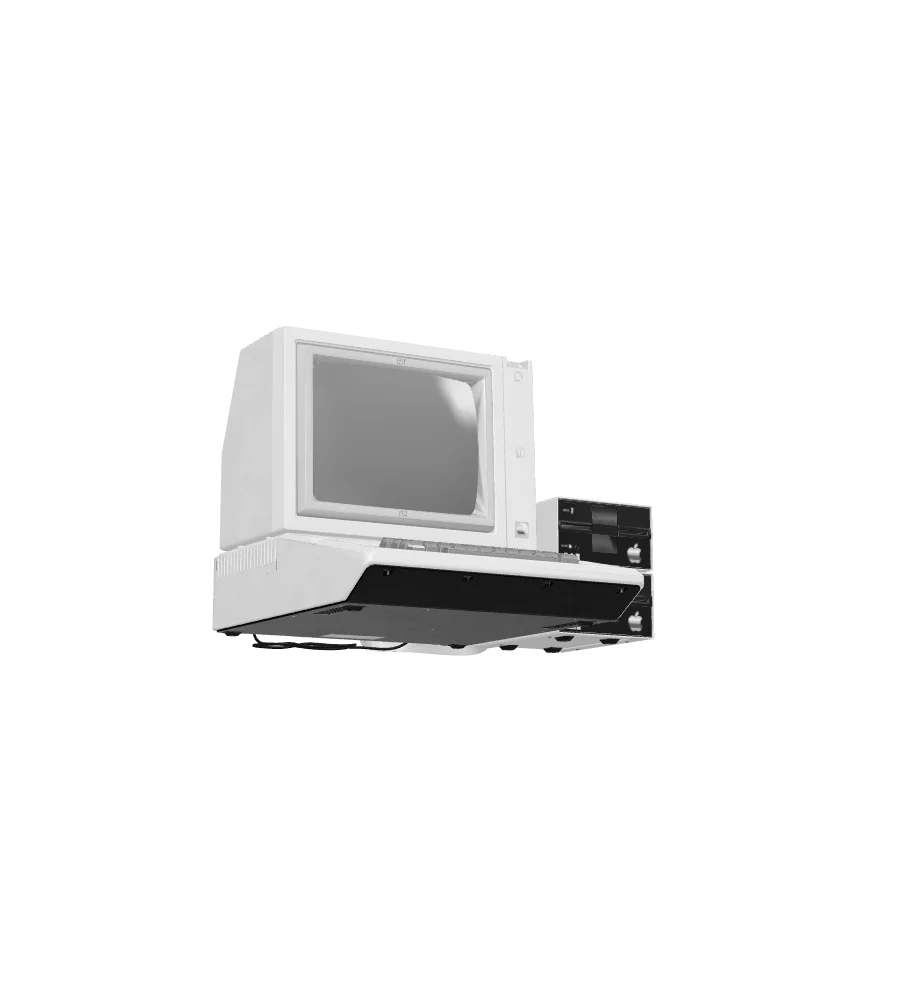
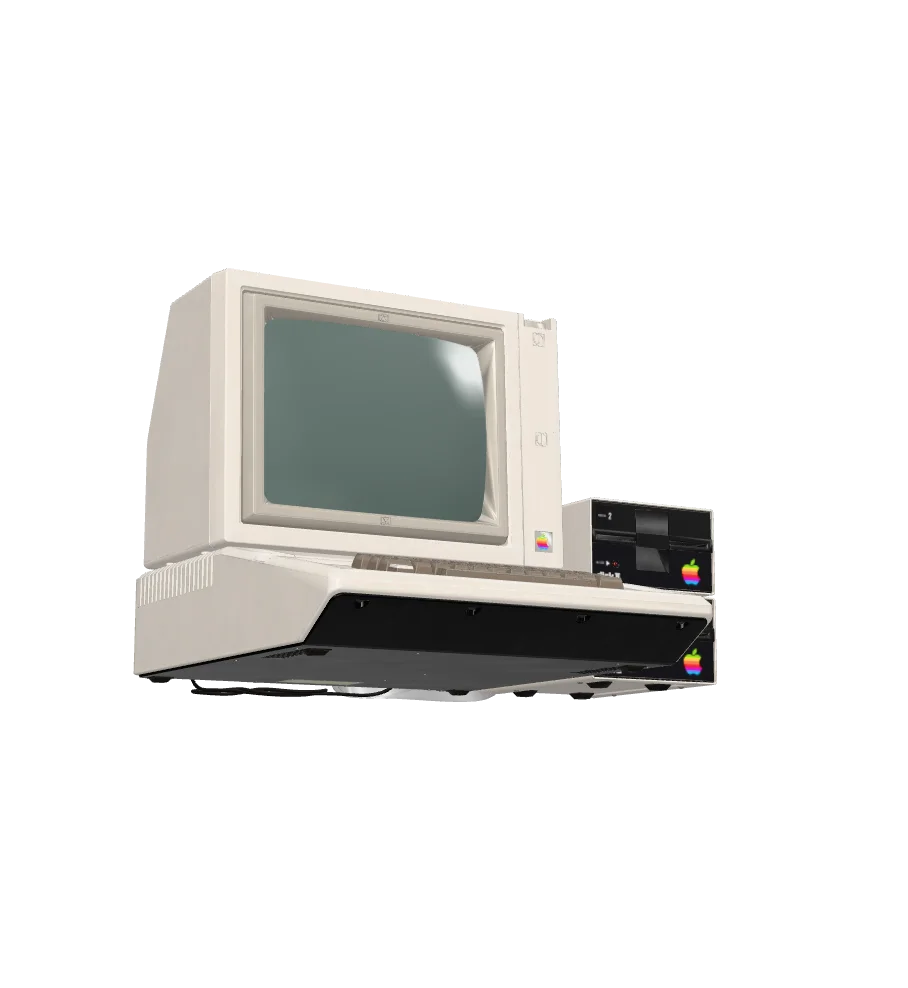
fix: ajustes da orelha, do 3D e do título da home (G4)
Orelha sem rastro (bloco fixo escalado por transform, sem filter nem animação de
width/height), página de baixo com o mesmo papel e grão do jornal (sem listras),
limiar de 110 px para virar a página e dica escondida durante o arraste. Título
da home sem estourar a coluna. Computador 3D maior e colorido, com o quadriculado
girando junto com o modelo. Testes de regressão para cada ponto.

Changed region(s): [[0.1233, 0.2733, 0.8018, 0.7287]]

diff --git a/tests/e2e/interactions.spec.ts b/tests/e2e/interactions.spec.ts
@@ -32,20 +32,22 @@ async function arrastarOrelha(page: Page, delta: number, soltar = true) {
   if (soltar) await page.mouse.up();
 }
 
-test('arrastar a orelha menos de ~280px e soltar faz o canto voltar (sem trocar de página)', async ({ page }) => {
+test('arrastar a orelha menos de 110px (dx+dy) e soltar faz o canto voltar (sem trocar de página)', async ({
+  page,
+}) => {
   await page.goto('/sobre/');
   const orelha = page.getByRole('link', { name: /Virar a página/ });
-  await arrastarOrelha(page, 200, false);
+  await arrastarOrelha(page, 80, false);
   expect(Number(await orelha.getAttribute('data-ear-size'))).toBeGreaterThan(100); // o canto descolou
   await page.mouse.up();
   await expect(orelha).toHaveAttribute('data-ear-size', '44'); // voltou
   await expect(page).toHaveURL(/\/sobre\/$/);
 });
 
-test('arrastar a orelha 280px ou mais e soltar completa a virada', async ({ page }) => {
+test('arrastar a orelha 110px ou mais (dx+dy) e soltar completa a virada', async ({ page }) => {
   await spyViewTransitions(page);
   await page.goto('/sobre/');
-  await arrastarOrelha(page, 340);
+  await arrastarOrelha(page, 170);
   await expect(page).toHaveURL(/\/experiencia\/$/, { timeout: 10_000 });
   await expect(page.locator('h1')).toHaveText('Experiência e formação');
 });
@@ -168,6 +170,29 @@ test.describe('computador 3D', () => {
     await expect(page.getByRole('figure', { name: /Computador compacto/ })).toBeVisible();
   });
 
+  test('o quadriculado gira junto com o modelo (setas) e o canvas não tem filtro de cinza', async ({
+    page,
+    browserName,
+  }) => {
+    await page.goto('/design-system/');
+    const quadro = page.locator('[data-renderer]').first();
+    await quadro.scrollIntoViewIfNeeded();
+    await expect(quadro).toHaveAttribute('data-renderer', /3d|cube/, { timeout: 45_000 });
+    const raios = page.getByTestId('mac-raios');
+    const antes = await raios.evaluate((el) => getComputedStyle(el).transform);
+    await quadro.focus();
+    await page.keyboard.press('ArrowRight');
+    await expect.poll(() => raios.evaluate((el) => getComputedStyle(el).transform)).not.toBe(antes);
+    if (browserName === 'chromium' && (await quadro.getAttribute('data-renderer')) === '3d') {
+      expect(
+        await page
+          .getByTestId('mac-3d')
+          .locator('canvas')
+          .evaluate((c) => getComputedStyle(c).filter),
+      ).toBe('none');
+    }
+  });
+
   test('a atribuição CC BY 4.0 do modelo está na página', async ({ page }) => {
     await page.goto('/');
     await expect(page.getByRole('link', { name: '«Apple II Computer»' })).toHaveAttribute(
@@ -197,3 +222,58 @@ test('orçamento: JS inicial de uma página sem o 3D fica abaixo de 150 KB gzip'
   await page.waitForLoadState('networkidle');
   expect(total / 1024, `JS inicial: ${(total / 1024).toFixed(1)} KB gzip`).toBeLessThan(150);
 });
+
+test('a orelha não usa filter nem animação de width/height (causa do rastro no Safari) e a página de baixo é papel liso', async ({
+  page,
+}) => {
+  await page.goto('/sobre/');
+  const orelha = page.getByRole('link', { name: /Virar a página/ });
+  await expect(orelha).toHaveAttribute('data-ready', 'true');
+  const auditoria = await orelha.evaluate((link) => {
+    const curl = link.previousElementSibling?.previousElementSibling as HTMLElement;
+    const todos = [curl, ...curl.querySelectorAll<HTMLElement>('*')];
+    return {
+      comFilter: todos.filter((el) => getComputedStyle(el).filter !== 'none').length,
+      comListras: todos.filter((el) => /repeating/.test(getComputedStyle(el).backgroundImage)).length,
+      // Só transições com duração de verdade (o padrão `all 0s` não conta) em width, height ou all.
+      transicoes: todos.filter((el) => {
+        const e = getComputedStyle(el);
+        return (
+          /width|height|all/.test(e.transitionProperty) &&
+          e.transitionDuration.split(',').some((d) => parseFloat(d) > 0)
+        );
+      }).length,
+      z: getComputedStyle(curl).zIndex,
+    };
+  });
+  expect(auditoria.comFilter).toBe(0);
+  expect(auditoria.comListras).toBe(0);
+  expect(auditoria.transicoes).toBe(0);
+  expect(auditoria.z).toBe('2'); // abaixo da textura de papel (z-3): recebe o mesmo grão do jornal
+});
+
+for (const [locale, caminho] of [
+  ['pt', '/'],
+  ['en', '/en/'],
+  ['de', '/de/'],
+] as const) {
+  for (const largura of [1280, 1024, 820]) {
+    test(`o título da home não estoura a coluna (${locale}, ${largura}px)`, async ({ page }) => {
+      await page.setViewportSize({ width: largura, height: 800 });
+      await page.goto(caminho);
+      const medidas = await page
+        .locator('article h2')
+        .first()
+        .evaluate((h) => {
+          const coluna = h.closest('article') as HTMLElement;
+          return {
+            cabe: h.scrollWidth <= h.clientWidth + 1,
+            direita: h.getBoundingClientRect().right,
+            limite: coluna.getBoundingClientRect().right,
+          };
+        });
+      expect(medidas.cabe).toBe(true);
+      expect(medidas.direita).toBeLessThanOrEqual(medidas.limite + 1);
+    });
+  }
+}

diff --git a/src/components/gazeta/PageEarCurl.tsx b/src/components/gazeta/PageEarCurl.tsx
@@ -1,7 +1,10 @@
+/** Lado do quadrado em que a orelha é desenhada; a orelha de verdade é esse bloco reduzido por `transform: scale`. */
+const MAX = 700;
+
 interface PageEarCurlProps {
-  /** Lado do canto virado em px (44 em repouso; a orelha cresce até 700 ao arrastar e 1800 ao concluir). */
+  /** Lado do canto virado em px (44 em repouso; a orelha cresce ao arrastar e ao completar a virada). */
   size?: number;
-  /** Nome da próxima seção e número da página, impressos no verso. */
+  /** Nome da próxima seção e número da página, impressos na página de baixo. */
   nextLabel: string;
   nextPage: number;
   /** Pulso discreto no repouso. */
@@ -12,7 +15,14 @@ interface PageEarCurlProps {
   dragging?: boolean;
 }
 
-/** Parte visual da orelha (canto virado). A interação (arrastar, clicar, Enter) entra no G4. */
+/**
+ * Parte visual da orelha (canto virado); a interação fica em `PageEar`.
+ *
+ * - O canto é um bloco fixo de 700 px escalado por `transform`: sem animar `width/height` e sem `filter` (o `drop-shadow`
+ *   deixava um rastro retangular no Safari ao soltar a orelha).
+ * - A página de baixo usa o MESMO papel do jornal: a orelha fica sob a camada de textura da folha (z-2, abaixo do z-3 da
+ *   textura), então recebe o mesmo grão e a mesma vinheta, sem hachuras.
+ */
 export function PageEarCurl({
   size = 44,
   nextLabel,
@@ -21,29 +31,30 @@ export function PageEarCurl({
   pageLabel = 'Página',
   dragging = false,
 }: PageEarCurlProps) {
+  const escala = Math.max(size, 1) / MAX;
   return (
-    <div aria-hidden="true" className="pointer-events-none absolute inset-0 z-[6] overflow-hidden max-sm:fixed">
+    <div aria-hidden="true" className="pointer-events-none absolute inset-0 z-[2] overflow-hidden max-sm:fixed">
       <div
-        className={`absolute right-0 bottom-0 origin-bottom-right ${pulse ? 'animate-ear-hint' : ''}`}
-        style={{ width: size, height: size, transition: dragging ? 'none' : 'width .25s ease, height .25s ease' }}
+        className="absolute right-0 bottom-0 origin-bottom-right"
+        style={{
+          width: MAX,
+          height: MAX,
+          transform: `scale(${escala})`,
+          transition: dragging ? 'none' : 'transform .25s ease',
+          willChange: 'transform',
+        }}
       >
-        <div className="absolute inset-0 bg-ear-back" style={{ clipPath: 'polygon(100% 100%, 0 100%, 100% 0)' }}>
-          <div
-            className="absolute inset-0"
-            style={{
-              background: 'linear-gradient(135deg, transparent 50%, rgb(0 0 0 / 0.38) 50%, rgb(0 0 0 / 0) 78%)',
-            }}
-          />
-          {size >= 200 && (
-            <div className="absolute right-[22px] bottom-3.5 text-right">
-              <p className="font-label text-[22px] tracking-[0.2em] uppercase">
-                {pageLabel} {nextPage}
-              </p>
-              <p className="font-headline text-[32px] leading-[1.1] font-extrabold">{nextLabel}</p>
-            </div>
-          )}
-        </div>
-        <div className="absolute inset-0" style={{ filter: 'drop-shadow(-3px -3px 5px rgb(0 0 0 / 0.35))' }}>
+        <div className={`absolute inset-0 origin-bottom-right ${pulse ? 'animate-ear-hint' : ''}`}>
+          {/* Página de baixo: papel liso, com a sombra que a dobra projeta sobre ela. */}
+          <div className="absolute inset-0 bg-paper" style={{ clipPath: 'polygon(100% 100%, 0 100%, 100% 0)' }}>
+            <div
+              className="absolute inset-0"
+              style={{
+                background: 'linear-gradient(135deg, transparent 50%, rgb(0 0 0 / 0.3) 50%, rgb(0 0 0 / 0) 70%)',
+              }}
+            />
+          </div>
+          {/* Canto levantado. */}
           <div
             className="absolute inset-0"
             style={{
@@ -53,6 +64,14 @@ export function PageEarCurl({
           />
         </div>
       </div>
+      {size >= 160 && (
+        <div className="absolute right-[22px] bottom-3.5 text-right">
+          <p className="font-label text-[22px] tracking-[0.2em] uppercase">
+            {pageLabel} {nextPage}
+          </p>
+          <p className="font-headline text-[32px] leading-[1.1] font-extrabold">{nextLabel}</p>
+        </div>
+      )}
     </div>
   );
 }

diff --git a/src/components/gazeta/MacViewer3D.tsx b/src/components/gazeta/MacViewer3D.tsx
@@ -2,7 +2,7 @@
 
 import { useEffect, useRef } from 'react';
 import {
-  ACESFilmicToneMapping,
+  NeutralToneMapping,
   Box3,
   Group,
   PMREMGenerator,
@@ -72,10 +72,9 @@ export default function MacViewer3D({ rx, ry, dragging, reducedMotion, onReady, 
     }
     renderer.setPixelRatio(Math.min(window.devicePixelRatio || 1, 2));
     renderer.outputColorSpace = SRGBColorSpace;
-    renderer.toneMapping = ACESFilmicToneMapping;
+    renderer.toneMapping = NeutralToneMapping; // preserva melhor as cores do modelo (o ACES as lavava)
     renderer.domElement.setAttribute('aria-hidden', 'true');
-    renderer.domElement.style.cssText =
-      'position:absolute;inset:0;width:100%;height:100%;display:block;filter:grayscale(1) contrast(1.08)';
+    renderer.domElement.style.cssText = 'position:absolute;inset:0;width:100%;height:100%;display:block';
     host.appendChild(renderer.domElement);
 
     const scene = new Scene();
@@ -138,9 +137,9 @@ export default function MacViewer3D({ rx, ry, dragging, reducedMotion, onReady, 
         const center = box.getCenter(new Vector3());
         model.position.sub(center);
         pivot.add(model);
-        // Enquadra o modelo: a maior dimensão ocupa ~48% da altura visível.
+        // Enquadra o modelo: a maior dimensão ocupa ~66% da altura visível.
         const maior = Math.max(size.x, size.y, size.z);
-        const distancia = maior / 0.48 / 2 / Math.tan((camera.fov * DEG) / 2);
+        const distancia = maior / 0.66 / 2 / Math.tan((camera.fov * DEG) / 2);
         camera.position.set(0, 0, distancia + size.z / 2);
         camera.lookAt(0, 0, 0);
         camera.far = distancia * 6;

diff --git a/src/components/site/PageEar.tsx b/src/components/site/PageEar.tsx
@@ -6,10 +6,15 @@ import { PageEarCurl } from '@/components/gazeta';
 import { track } from '@/lib/analytics';
 import { turnTo } from '@/lib/page-turn';
 
-/** Arraste diagonal somado (dx + dy) a partir do qual soltar completa a virada (BRIEF seção 4). */
-export const EAR_COMPLETE_AT = 280;
+/**
+ * Arraste diagonal somado (dx + dy) a partir do qual soltar completa a virada. O BRIEF previa ~280 px; o autor achou que
+ * exigia puxar demais (2026-10-06), então caiu para 110 px (o canto já está bem levantado nesse ponto).
+ */
+export const EAR_COMPLETE_AT = 110;
 const REST = 44;
 const MAX = 700;
+/** O canto cresce `ESCALA` px para cada px arrastado na diagonal. */
+const ESCALA = 1.8;
 const MOVED_THRESHOLD = 8;
 
 interface PageEarProps {
@@ -50,7 +55,7 @@ export function PageEar({ href, ariaLabel, nextLabel, nextPage, pageLabel, hint 
     const v = soma(e);
     start.current.v = v;
     if (v > MOVED_THRESHOLD) start.current.moved = true;
-    setSize(Math.min(MAX, REST + v * 0.9));
+    setSize(Math.min(MAX, REST + v * ESCALA));
   }
 
   function finish(e: PointerEvent<HTMLAnchorElement>) {
@@ -94,7 +99,7 @@ export function PageEar({ href, ariaLabel, nextLabel, nextPage, pageLabel, hint 
       />
       <span
         aria-hidden="true"
-        className="pointer-events-none absolute right-[72px] bottom-4 z-[3] hidden font-label text-xl tracking-[0.16em] uppercase sm:block"
+        className={`pointer-events-none absolute right-[72px] bottom-4 z-[3] hidden font-label text-xl tracking-[0.16em] uppercase transition-opacity duration-150 sm:block ${size > REST ? 'opacity-0' : ''}`}
       >
         {hint}
       </span>

diff --git a/src/components/gazeta/MacViewer.tsx b/src/components/gazeta/MacViewer.tsx
@@ -159,10 +159,17 @@ export function MacViewer({ labels = DEFAULT_LABELS }: { labels?: MacViewerLabel
         className={`relative h-[500px] touch-pan-y overflow-hidden border-[3px] border-ink select-none ${dragging ? 'cursor-grabbing' : 'cursor-grab'}`}
         style={{ boxShadow: '0 0 0 6px #f5f3ec, 0 0 0 8px #111' }}
       >
+        {/* Raios do quadriculado: giram em torno do centro junto com o computador (o cruzamento com os anéis, fixos, faz o
+            quadriculado "andar em círculo"). Maior que o quadro para que os cantos não apareçam ao girar. */}
         <div
           aria-hidden="true"
-          className="absolute inset-0"
-          style={{ background: 'repeating-conic-gradient(from 0 at 50% 50%, #111 0 6deg, #f5f3ec 6deg 12deg)' }}
+          data-testid="mac-raios"
+          className="absolute -inset-[25%]"
+          style={{
+            background: 'repeating-conic-gradient(from 0 at 50% 50%, #111 0 6deg, #f5f3ec 6deg 12deg)',
+            transform: `rotate(${rot.ry}deg)`,
+            transition: dragging || reducedMotion ? 'none' : 'transform 450ms ease-out',
+          }}
         />
         <div
           aria-hidden="true"

diff --git a/src/components/site/pages/Home.tsx b/src/components/site/pages/Home.tsx
@@ -13,7 +13,9 @@ export function HomePage({ locale }: { locale: Locale }) {
     <div className="flex flex-wrap gap-y-9">
       <article className="min-w-0 flex-[1_1_260px] lg:pr-7">
         <p className="font-label text-xl tracking-[0.22em] uppercase">{home.kicker}</p>
-        <h2 className="font-headline text-[clamp(30px,3.4vw,40px)] leading-[1.1] font-extrabold">{home.headline}</h2>
+        <h2 className="font-headline text-[clamp(24px,2.5vw,34px)] leading-[1.1] font-extrabold [overflow-wrap:anywhere] hyphens-auto">
+          {home.headline}
+        </h2>
         <p className="mt-3 text-xl italic">{home.lead}</p>
         <hr className="my-4 border-0 border-t border-ink" />
         <p className="prose-gazeta">

diff --git a/docs/DECISIONS.md b/docs/DECISIONS.md
@@ -167,3 +167,14 @@ Fontes: <https://docs.umami.is/docs/tracker-configuration>, <https://docs.umami.
 | Currículo (`public/resume-raphael-sena.pdf`) vira a fonte de Experiência, Formação, Projetos, Tecnologias, Sobre e Home; números e datas do currículo liberados pelo autor; telefone do PDF fora do site                                                                                                              | Pedido do usuário ("atualize com base em meu currículo"); a restrição anterior de não publicar números valia só até a confirmação do autor |
 | Estrutura de dados: `jobs` sem `skills`, com `items` (título e texto) nos dicionários; `projects` com `stack` (currículo) ou `languages` (GitHub) e `repo` opcional; tecnologias em 12 grupos, com itens descritivos nos dicionários (`technologies.extra`) para os nomes de tecnologia continuarem neutros de idioma | Currículo estruturado por destaques; o TCC não tem repositório público                                                                     |
 | Agência Experimental de Software (Cuido Bem) deixa de ser experiência atual                                                                                                                                                                                                                                           | O currículo novo só a cita na formação (Tech Lead no projeto PMMG); a confirmar com o autor                                                |
+
+## Ajustes do G4 pedidos pelo autor (2026-10-06)
+
+| Decisão                                                                                                                                                                                                                                                                        | Motivo                                                                                                                                                                                                                                                                                                         |
+| ------------------------------------------------------------------------------------------------------------------------------------------------------------------------------------------------------------------------------------------------------------------------------ | -------------------------------------------------------------------------------------------------------------------------------------------------------------------------------------------------------------------------------------------------------------------------------------------------------------- |
+| Limiar da orelha: **110 px** de arraste diagonal somado (dx+dy), no lugar dos ~280 px do BRIEF; o canto cresce 1,8 px por px arrastado (já fica com ~240 px no limiar). A legenda "Página N / Seção" aparece a partir de 160 px; a dica "Puxe a orelha" some durante o arraste | "Está muito grande para passar de página, preciso puxar muito". O BRIEF seção 4 e o DESIGN-SPEC ainda citam 280 px; vale esta decisão                                                                                                                                                                          |
+| Orelha redesenhada: bloco fixo de 700 px escalado por `transform: scale` (sem animar `width/height`, sem `filter: drop-shadow`)                                                                                                                                                | O autor viu, no Safari, um retângulo com linhas horizontais ("rastro") depois de puxar e voltar: o desenho antigo animava `width/height` sob um `drop-shadow`. Não reproduzi o artefato no WebKit sem tela, mas a causa provável foi removida e há teste de regressão (sem `filter`, sem transição de tamanho) |
+| A página de baixo (verso revelado) é **papel liso do jornal**: a orelha fica em `z-2`, abaixo da camada de textura `z-3`, e recebe o mesmo grão e a mesma vinheta; sem hachuras                                                                                                | "A página de baixo está com listras iguais ao background do jornal; quero a mesma textura do jornal" e "background transparente ou o default do navegador". Interpretação: o verso não tem preenchimento próprio (é o papel da folha)                                                                          |
+| Modelo 3D **colorido** (sem `grayscale`), **maior** (66% da altura do quadro, antes 48%) e com `NeutralToneMapping` (o ACES lavava as cores); poster regenerado colorido. O cubo CSS de reserva continua em preto e branco                                                     | "O 3D poderia ser maior e colorido, a dissonância fica legal". Substitui a decisão de 2026-10-06 de manter o 3D em tons de cinza                                                                                                                                                                               |
+| Os raios do quadriculado (`repeating-conic-gradient`) giram com o mesmo ângulo do modelo (`rotate(ry)`); os anéis ficam fixos e o cruzamento dos dois faz o quadriculado "andar em círculo". Sem transição com movimento reduzido ou durante o arraste                         | "Queria que o quadriculado mexesse em círculo conforme a movimentação do 3D"                                                                                                                                                                                                                                   |
+| Título da home: `clamp(24px, 2.5vw, 34px)` com `hyphens-auto` e `overflow-wrap: anywhere`                                                                                                                                                                                      | "DESENVOLVEDOR" estourava para a coluna do centro; testado em pt, en e de a 1280, 1024 e 820 px                                                                                                                                                                                                                |

diff --git a/docs/PROGRESS.md b/docs/PROGRESS.md
@@ -2,7 +2,7 @@
 
 ## Fase atual
 
-**Atualização de conteúdo a partir do currículo: PR aberto, aguardando OK.** G1 a G7 mergeados; `main` protegido (PR obrigatório e checks `verificar`, `e2e` e `lighthouse`); `UMAMI_HOST` religado (`/api/health` mostra `umami: ok`). Falta o G8 (cutover).
+**Ajustes do G4: PR aberto, aguardando OK.** Conteúdo do currículo mergeado (PR #33). G1 a G7 mergeados; `main` protegido (PR obrigatório e checks `verificar`, `e2e` e `lighthouse`); `UMAMI_HOST` religado (`/api/health` mostra `umami: ok`). Falta o G8 (cutover).
 
 ## Feito
 
@@ -13,9 +13,9 @@
 - 2026-10-06: G7 mergeado (PR #32): `/2024/`, `/2025/` e `/2026/` no ar, `noindex`. Proteção do `main` aplicada pela API.
 - 2026-10-06: conteúdo atualizado a partir do currículo (`conteudo-curriculo`): Experiência, Formação, Projetos (inclui o TCC), Tecnologias (12 grupos), Sobre, Home e idiomas, nos 3 idiomas.
 
-## Feedback do usuário para corrigir depois (G4)
+## Ajustes do G4 (2026-10-06)
 
-Pontos ruins na passada de página, o tamanho da orelha e bugs ao voltar com a orelha. O usuário vai detalhar; o agente corrige em uma rodada de ajustes.
+Aplicados no PR `g4-ajustes`: rastro da orelha (Safari), página de baixo com a textura do jornal, limiar de 110 px, título da home, 3D maior e colorido, quadriculado girando com o modelo. Falta o autor validar no Safari real e dizer se há outros pontos da passada de página (virada entre rotas) a corrigir.
 
 ## Pendente
 
